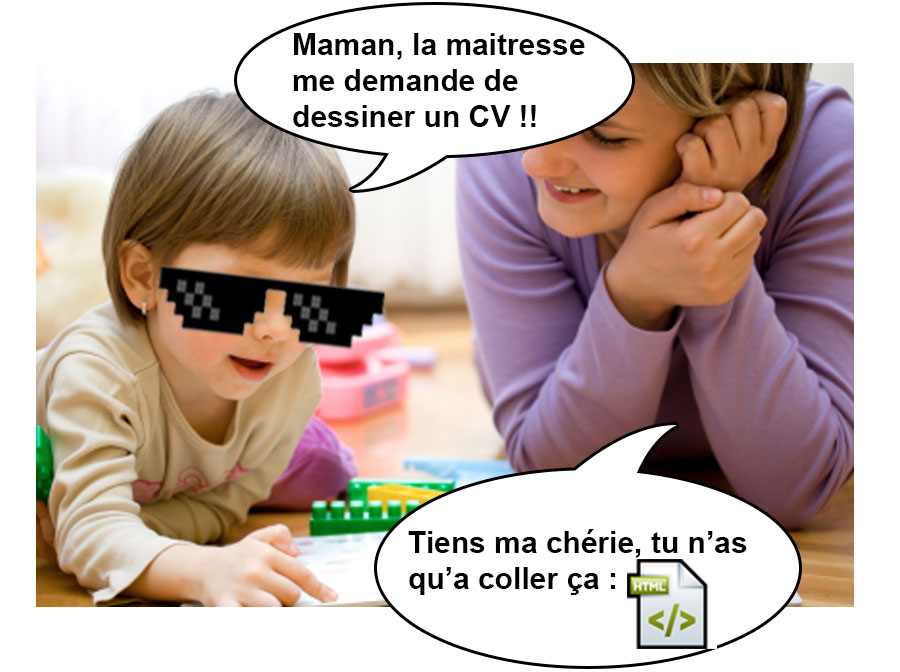
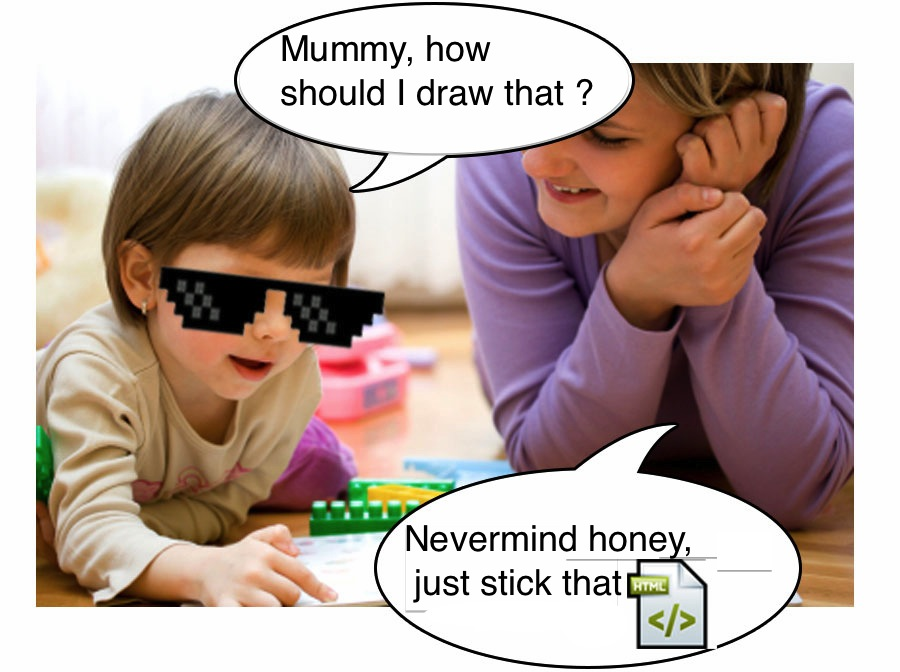
translate images for doyoubuzz+angular pres

diff --git a/talks/doyoubuzz-angularjs_en/index.html b/talks/doyoubuzz-angularjs_en/index.html
@@ -644,7 +644,7 @@ w.$update(); //PUT -&gt; /cv/12/skills/1
         </div>
 
         <div class="step slide free" data-scale="0.3" data-x="0" data-y="2000">
-            <h2><img src="./images/doyoubuzz.png" class="dyb-title"> + <img class="dyb-title" src="./images/angularjs.png"> : bilan</h2>
+            <h2><img src="./images/doyoubuzz.png" class="dyb-title"> + <img class="dyb-title" src="./images/angularjs.png"> : summary</h2>
             <table style="width: 100%">
                 <tr class="table-header">
                     <td>Front-End V1</td><td>Front-End V2</td>
@@ -683,6 +683,10 @@ w.$update(); //PUT -&gt; /cv/12/skills/1
             <img class="substep x2" src="./images/dyb.v2.interactions.1.png" style="height: 700px;">
             <img class="substep x3" src="./images/dyb.v2.interactions.2.png" style="height: 700px;">
             <img class="substep x4" src="./images/dyb.v2.interactions.3.png" style="height: 700px;">
+        </div>
+
+        <div class="step" data-scale="0.3" data-x="0" data-y="2100" data-z="100" data-steps=4>
+            <h1>Thanks</h1>
         </div>
 
     </div>
